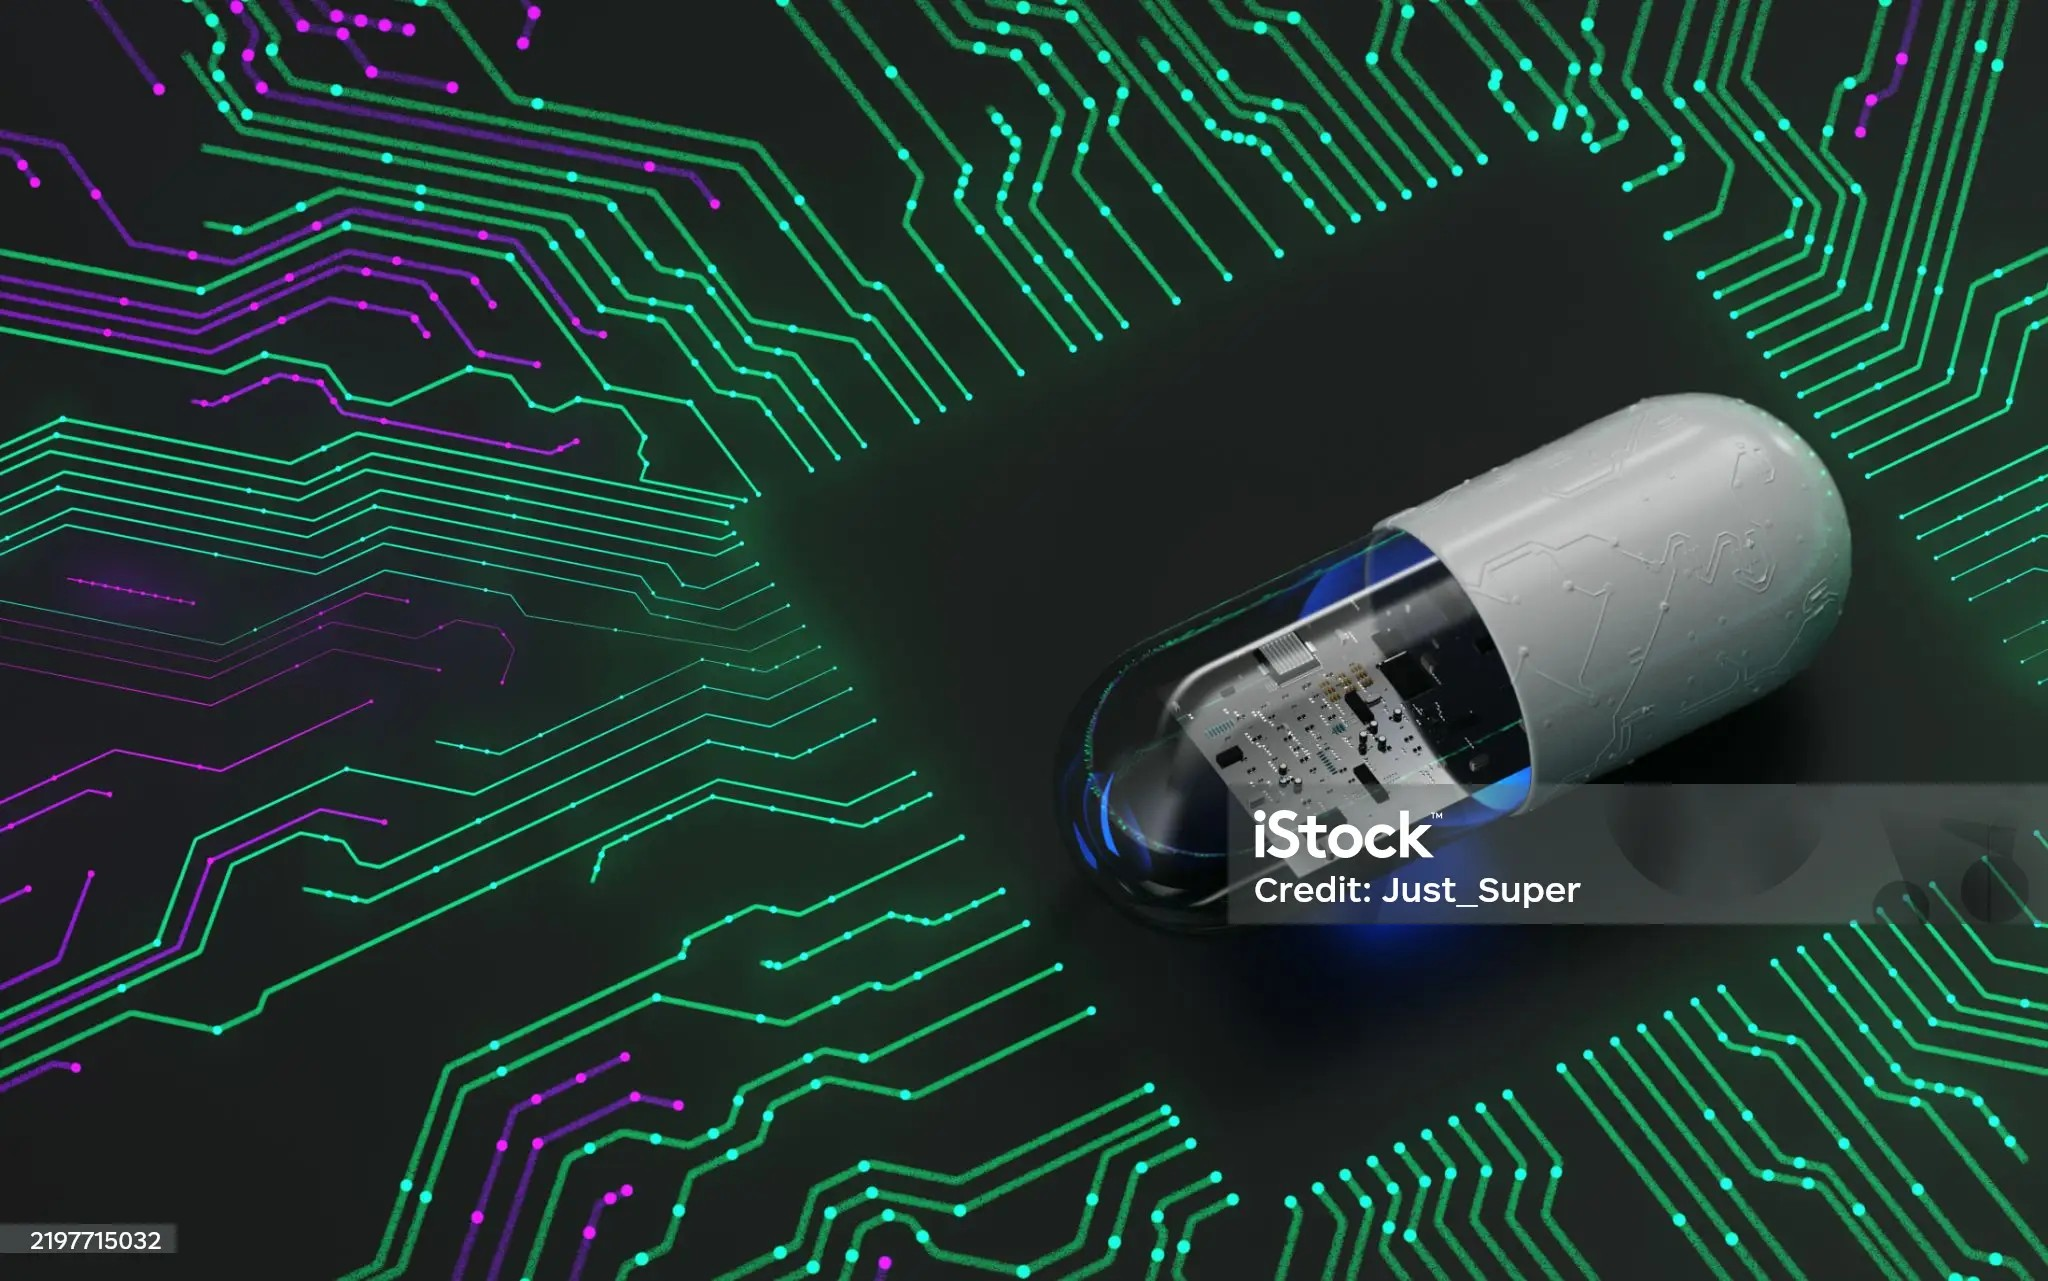
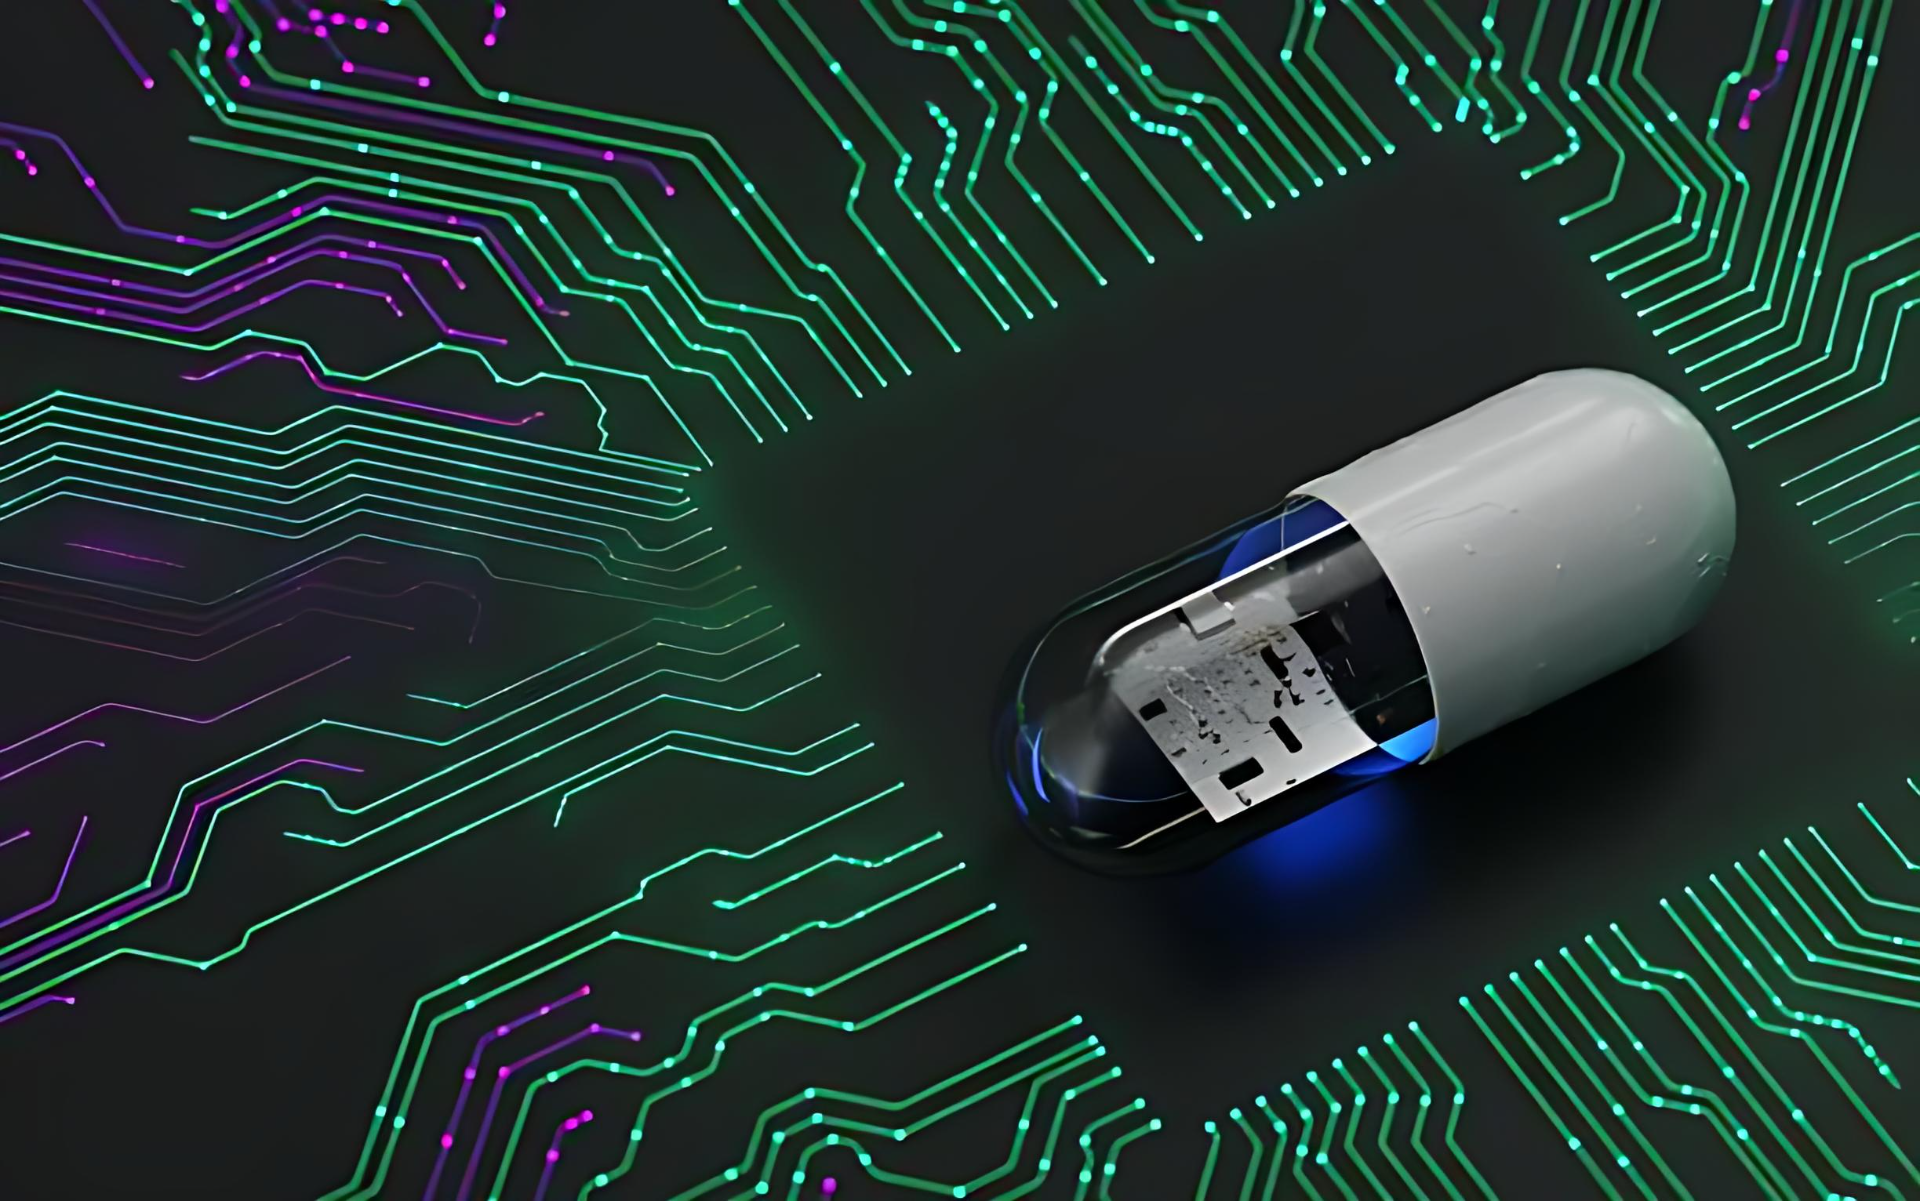
部分图片优化，首页切换箭头优化

diff --git a/src/components/index/MedicalCarousel.vue b/src/components/index/MedicalCarousel.vue
@@ -1,21 +1,16 @@
 <template>
   <div class="carousel-bg">
-    <div
-      v-for="(img, idx) in images"
-      :key="idx"
-      :class="[
-        'carousel-img',
-        {
-          current: idx === currentIndex,
-          prev: idx === lastIndex,
-          'slide-in-from-right': slideDirection === 'right' && idx === currentIndex,
-          'slide-in-from-left': slideDirection === 'left' && idx === currentIndex,
-          'slide-out-to-left': slideDirection === 'right' && idx === lastIndex,
-          'slide-out-to-right': slideDirection === 'left' && idx === lastIndex,
-        }
-      ]"
-      :style="{ backgroundImage: `url(${img.url})` }"
-    ></div>
+    <div v-for="(img, idx) in images" :key="idx" :class="[
+      'carousel-img',
+      {
+        current: idx === currentIndex,
+        prev: idx === lastIndex,
+        'slide-in-from-right': !isFirstRender && slideDirection === 'right' && idx === currentIndex,
+        'slide-in-from-left': !isFirstRender && slideDirection === 'left' && idx === currentIndex,
+        'slide-out-to-left': !isFirstRender && slideDirection === 'right' && idx === lastIndex,
+        'slide-out-to-right': !isFirstRender && slideDirection === 'left' && idx === lastIndex,
+      }
+    ]" :style="{ backgroundImage: `url(${img.url})` }"></div>
 
     <div class="carousel-overlay">
       <!-- 左箭头 -->
@@ -30,19 +25,15 @@
       </div>
 
       <div class="carousel-indicators">
-        <span
-          v-for="(img, idx) in images"
-          :key="idx"
-          :class="{ active: idx === currentIndex }"
-          @click="goToImage(idx)"
-        ></span>
+        <span v-for="(img, idx) in images" :key="idx" :class="{ active: idx === currentIndex }"
+          @click="goToImage(idx)"></span>
       </div>
     </div>
   </div>
 </template>
 
 <script setup>
-import { ref, onMounted, onUnmounted } from 'vue'
+import { ref, onMounted, onUnmounted, nextTick } from 'vue'
 
 const images = [
   {
@@ -63,8 +54,9 @@ const images = [
 ]
 
 const currentIndex = ref(0)
-const lastIndex = ref(0)
-const slideDirection = ref('right') // 'right' or 'left'
+const lastIndex = ref(-1)
+const slideDirection = ref('right')
+const isFirstRender = ref(true) // 新增
 
 let timer = null
 
@@ -89,6 +81,9 @@ function prevImage() {
 
 onMounted(() => {
   timer = setInterval(nextImage, 4000)
+  nextTick(() => {
+    isFirstRender.value = false // 首次渲染后关闭首次标志
+  })
 })
 
 onUnmounted(() => {
@@ -172,6 +167,7 @@ onUnmounted(() => {
   from {
     transform: translateX(100%);
   }
+
   to {
     transform: translateX(0);
   }
@@ -181,6 +177,7 @@ onUnmounted(() => {
   from {
     transform: translateX(-100%);
   }
+
   to {
     transform: translateX(0);
   }
@@ -190,6 +187,7 @@ onUnmounted(() => {
   from {
     transform: translateX(0);
   }
+
   to {
     transform: translateX(-100%);
     opacity: 0;
@@ -200,6 +198,7 @@ onUnmounted(() => {
   from {
     transform: translateX(0);
   }
+
   to {
     transform: translateX(100%);
     opacity: 0;
@@ -270,15 +269,31 @@ onUnmounted(() => {
   position: absolute;
   top: 50%;
   transform: translateY(-50%);
-  font-size: 48px;
+  font-size: 32px;
   color: white;
   cursor: pointer;
   z-index: 30;
-  padding: 8px 16px;
+  width: 56px;
+  /* 新增：固定宽高 */
+  height: 56px;
+  /* 新增：固定宽高 */
   background: rgba(0, 0, 0, 0.3);
   border-radius: 50%;
+  /* 新增：圆形 */
   pointer-events: auto;
   transition: background 0.3s;
+  display: flex;
+  /* 新增：居中内容 */
+  align-items: center;
+  /* 新增：垂直居中 */
+  justify-content: center;
+  /* 新增：水平居中 */
+  border: 2px solid #fff;
+  /* 可选：加个白色边框更明显 */
+  box-sizing: border-box;
+  /* 防止边框撑大 */
+  padding: 0;
+  /* 去除原有内边距 */
 }
 
 .carousel-arrow:hover {
